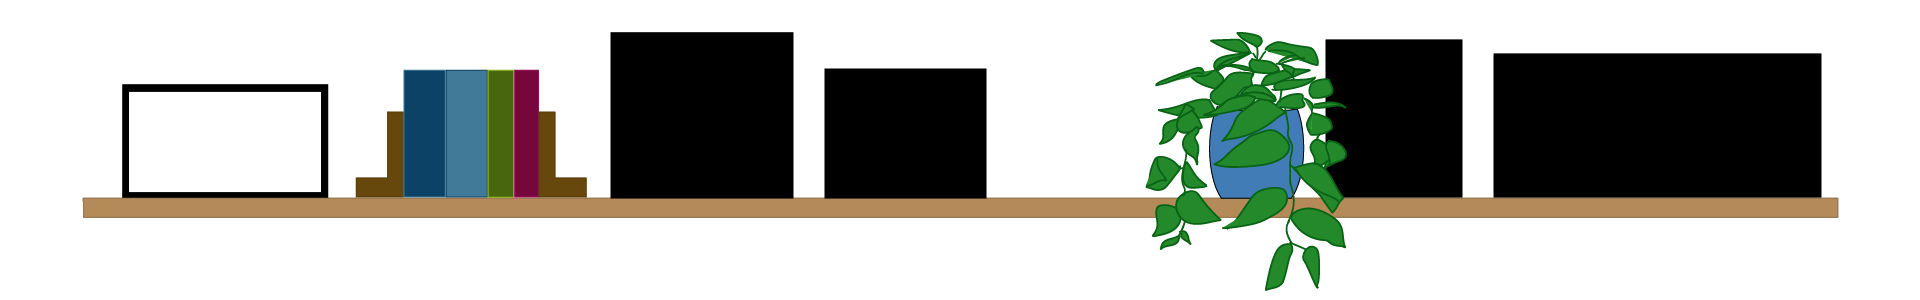
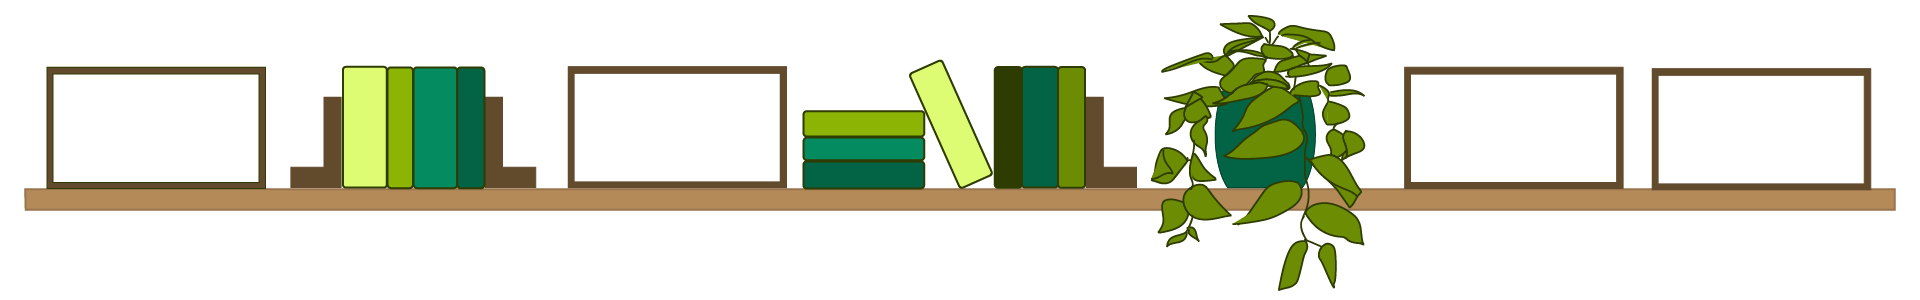
some changes

diff --git a/src/routes/+page.svelte b/src/routes/+page.svelte
@@ -11,16 +11,14 @@
 	import '$lib/assets/hate_your_writing/Regular.ttf';
 </script>
 
-<div class="page">
-	<img src="rain-2.gif" class="office" />
-	<img src="office-2.svg" class="office" />
+<img src="rain-2.gif" class="office" />
+<img src="office-2.svg" class="office" />
 
-	<img class="ithaca bulletins" alt="ithaca" src={Ithaca} />
-	<img class="yellowstone bulletins" alt="yellowstone" src={Yellowstone} />
-	<img class="graduation bulletins" alt="graduation" src={Graduation} />
-	<img class="hiking bulletins" alt="Hiking" src={Hiking} />
-	<img class="glacier bulletins" alt="Glacier" src={Glacier} />
-</div>
+<img class="ithaca bulletins" alt="ithaca" src={Ithaca} />
+<img class="yellowstone bulletins" alt="yellowstone" src={Yellowstone} />
+<img class="graduation bulletins" alt="graduation" src={Graduation} />
+<img class="hiking bulletins" alt="Hiking" src={Hiking} />
+<img class="glacier bulletins" alt="Glacier" src={Glacier} />
 
 <style>
 	.bulletins {
@@ -28,19 +26,11 @@
 		z-index: 3;
 	}
 
-	.page {
-		/* background-color: #02422E; */
-		height: 100vh;
-		width: 100%;
-		display: flex;
-		justify-content: center;
-	}
-
 	.office {
 		position: fixed;
 		z-index: 1;
-		top: 200px;
-		height: 90%;
+		top: var(--header-height);
+		height: calc(100vh - var(--header-height));
 	}
 
 	.ithaca {

diff --git a/src/lib/components/header.svelte b/src/lib/components/header.svelte
@@ -2,12 +2,13 @@
 	import InstaIcon from '$lib/assets/instagram-icon.jpeg';
 	import KickStartIcon from '$lib/assets/kickstarter-icon.png';
 	import LinkedInIcon from '$lib/assets/linkedin-icon.png';
+	import { base } from '$app/paths';
 </script>
 
 <div class="header">
 	<img src="shelf.png" alt="shelf" class="shelf" />
 
-	<a class="home" href="/">Rosie Ross</a>
+	<a class="home" href="{base}/">Home</a>
 	<!-- <a href='https://www.linkedin.com/in/rosalieross/'> 
         <img src={LinkedInIcon} alt='linkedin' class="logo"/>
     </a>   
@@ -22,17 +23,14 @@
 </div>
 
 <style>
-	.shelf {
-		top: 0;
-		height: 300px;
-		position: fixed;
-		z-index: 2;
-	}
-
 	.header {
 		width: 100%;
 		display: flex;
 		justify-content: center;
+		top: 0;
+		height: var(--header-height);
+		position: fixed;
+		z-index: 2;
 	}
 
 	.home {

diff --git a/svelte.config.js b/svelte.config.js
@@ -1,12 +1,17 @@
-import adapter from '@sveltejs/adapter-auto';
+import adapter from '@sveltejs/adapter-static';
 
 /** @type {import('@sveltejs/kit').Config} */
 const config = {
 	kit: {
-		// adapter-auto only supports some environments, see https://svelte.dev/docs/kit/adapter-auto for a list.
-		// If your environment is not supported, or you settled on a specific environment, switch out the adapter.
-		// See https://svelte.dev/docs/kit/adapters for more information about adapters.
-		adapter: adapter()
+		adapter: adapter({
+			// default options are shown. On some platforms
+			// these options are set automatically — see below
+			pages: 'build',
+			assets: 'build',
+			fallback: undefined,
+			precompress: false,
+			strict: true
+		})
 	}
 };
 

diff --git a/calendarScript.js b/calendarScript.js
@@ -1,9 +1,10 @@
 import { google } from 'googleapis';
+import fs from 'fs';
 const SCOPES = ['https://www.googleapis.com/auth/calendar.readonly'];
 
-export async function GET() {
+const getCalendarEvents = async () => {
 	const auth = new google.auth.GoogleAuth({
-		keyFile: 'src/routes/api/calendar/user.json',
+		keyFile: './user.json',
 		scopes: SCOPES
 	});
 
@@ -17,5 +18,7 @@ export async function GET() {
 		orderBy: 'startTime'
 	});
 
-	return new Response(JSON.stringify(res.data.items));
-}
+	fs.writeFileSync('static/cal-events.json', JSON.stringify(res.data));
+};
+
+await getCalendarEvents();

diff --git a/src/routes/gallery/+page.svelte b/src/routes/gallery/+page.svelte
@@ -7,29 +7,29 @@
 
 <style>
 	.avocado {
-		position: fixed;
+		position: relative;
 		left: 158px;
 		top: 290px;
 		height: 300px;
 	}
 
 	.moon {
-		position: fixed;
+		position: relative;
 		left: 782px;
 		top: 236px;
 		height: 300px;
 	}
 
 	.fish {
-		position: fixed;
+		position: relative;
 		left: 735px;
 		top: 565px;
 		height: 300px;
 	}
 
 	.painting {
-		position: fixed;
-		top: 300px;
+		position: relative;
+		/* top: 300px; */
 		left: 300px;
 		height: 300px;
 	}

diff --git a/src/routes/+layout.svelte b/src/routes/+layout.svelte
@@ -7,12 +7,27 @@
 
 <div class="layout">
 	<Header />
-	{@render children?.()}
+	<div class="page">
+		{@render children?.()}
+	</div>
 	<Footer />
 </div>
 
 <style>
+	.page {
+		position: fixed;
+		top: var(--header-height);
+		height: calc(100vh - var(--header-height));
+		width: 100%;
+		display: flex;
+		justify-content: center;
+	}
+
 	.layout {
+		position: fixed;
+		width: 100%;
+		height: 100%;
 		background-color: var(--room-background);
+		z-index: 0;
 	}
 </style>

diff --git a/src/routes/productivity/+page.server.js b/src/routes/productivity/+page.server.js
@@ -1,7 +1,6 @@
-export async function load({ fetch }) {
-	const response = await fetch('api/calendar');
+import calendarData from '../../../static/cal-events.json';
 
-	const events = await response.json();
-
+export async function load() {
+	const events = calendarData.items;
 	return { events };
 }

diff --git a/static/global.css b/static/global.css
@@ -5,12 +5,15 @@ html {
     scroll-padding-top: 10rem;
 
 
+    --header-height: 20vh;
     --room-background: #02422E;
 }
 
 body {
     font-family: 'Courier New', Courier, monospace;
 
+    height: 100%;
+    width: 100%;
 }
 
 a {

diff --git a/src/routes/+layout.js b/src/routes/+layout.js
@@ -1,0 +1,1 @@
+export const prerender = true;
